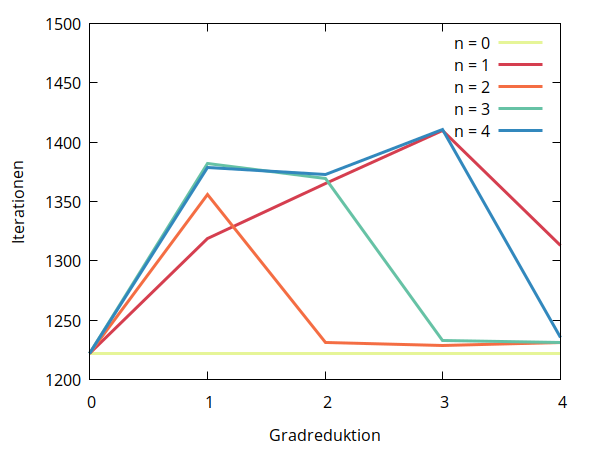
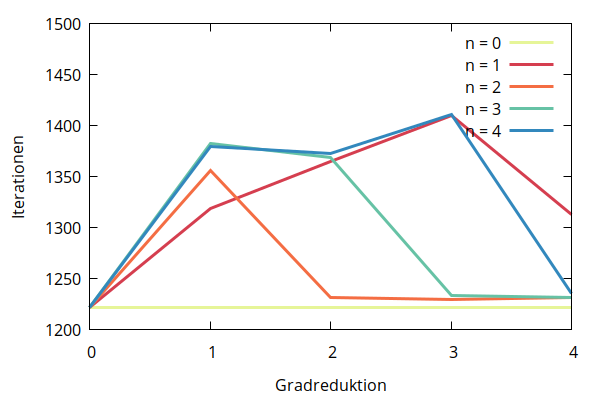
sweeping content

diff --git a/masterarbeit/thesis/src/eval.tex b/masterarbeit/thesis/src/eval.tex
@@ -71,9 +71,9 @@ Um diese Werte zu untersuchen, wurde betrachtet, wie sich die Größe des Rechte
 
 Tabelle \ref{tab:housekeeping} zeigt experimentelle Ergebnisse für $x_0 = 0 + 1 \cdot \lambda_1 $ und $y_0 = 0 + 1 \cdot \lambda_2$ mit $\lambda_1, \lambda_2 \in [0 \pm \varepsilon]$. Sowohl für 1000, als auch für 10000 Bits Genauigkeit reagiert das Ergebnis sehr sensibel auf die Grenzwerte der Housekeeping-Methoden. Falsch gewählte Werte vergrößern sogar die entstandene Überschätzung, im Vergleich zuer Berechnung ohne Cleaning und Splitting, jeweils in Zeile 1 der Tabellen zu sehen. Werden die Grenzwerte durch die \verb+iRRAM+-Präzision bestimmt, so bleibt der Fehler am längsten klein und die höchste Iterationszahl ist möglich.
 
-\Abbildungps{tbh}{.6}{img/housesteps.pdf}{fig:housesteps}{Experimentelle Ergebnisse zu Grenzwerten}{Iterationszahl der H\e non-Abbildung mit fester Genauigkeit von 1000 Bits.}
+\Abbildungps{tbh}{.6}{img/housesteps.png}{fig:housesteps}{Experimentelle Ergebnisse zu Grenzwerten}{Iterationszahl der H\e non-Abbildung mit fester Genauigkeit von 1000 Bits.}
 
-Wie in Abbildung \ref{fig:housesteps} zu sehen ist, hat eine Definition der Grenzwerte unter die zugrunde liegende Genauigkeit keinen Effekt mehr auf die Performanz der Berechnung, da sich die Iterationszahl nicht weiter erhöht.
+Wie in Abbildung \ref{fig:housesteps} zu sehen ist, hat eine Definition der Grenzwerte unter die zugrunde liegende Genauigkeit keinen Effekt mehr auf die Performanz der Berechnung, da sich die Iterationszahl nicht weiter erhöht.  
  
 
 \section{Sweeping}
@@ -85,7 +85,15 @@ Wie in Abbildung \ref{fig:housesteps} zu sehen ist, hat eine Definition der Gren
   \item \textbf{(Splitting)} Einführen neuer Fehlersymbole für Monome, deren Koeffizieten durch die Schritte 1-3 zu stark gewachsen sind.
  \end{enumerate}
 
- Abbildung \ref{fig:sweeping} zeigt die Performanz der Berechnung der H\e non-Abbildung, gemessen an der erreichten Iterationszahl mit fester Präzision von 1000 Bits und $x_0 = y_0 = [0 \pm 2^{1000}]$.
+ Abbildung \ref{fig:sweeping} zeigt die Performanz der Berechnung der H\e non-Abbildung, gemessen an der erreichten Iterationszahl mit statischer Präzision in verschiedenen Fällen. Wie zuvor ist die Berechnung beendet, sobald die Fläche des Rechtecks einen Schwellenwert überschreitet. Zu sehen ist, bei welcher Kombination von Parametern für Sweeing (Schritt 1) und Sweping überschüssiger Fehlersymbole (Schritt 2) die Überschätzung am langsamsten wächst und somit die meisten Iterationen errechntet werden können. Eine Kurve stellt das Ergebnis dar, welches entsteht, wenn $n$ Fehlersymbole erhalten bleiben. Die Zeiteffizienz ist in diesem Falle kein Faktor.
+ 
+Es ist zu erkennen, dass sich die Kurven innerhalb derselben Sweeping-Strategie kaum unterscheiden. Eine Verzehnfachung der Bitzahl in der Breite der Intervalle und der Präzision verzehnfacht auch die erreichte Iterationszahl. 
+
+Die besten Ergebnisse werden beim Beschränken auf \textbf{square\_only} (quadratisches Sweeping) für $n=3$ und Sweeping zum Grade 0; bei \textbf{square\_first} für $n=1$, $n=4$ und Sweeping zum Grade 3 erreicht.
+
+Insgesamt wird jedoch mit \textbf{square\_only} zum Grade 0, also einem Sweeping bis zu einem Taylormodell mit !!!!!!!!, die höchste Iterationszahl erzielt. Im Vergleich mit rein linearen Taylormodellen zeigt sich jedoch eine leichte Verbesserung (siehe Abbildung \ref{fig:extra}). Der Unterschied besteht darin, dass die nichtlinearen Taylormodelle während der Berechnung und besonders während der Multiplikation Punktintervalle erhalten können und sich stattdessen der Grad des Polynoms erhöht. Nach jeder Iteration werden diese dann zunächst zu linearen Taylormodellen reduziert, um dann den Grad durch Splitting auf den Monomen um maximal 1 zu erhöhen. Für lineare Taylormodelle steht lediglich das Splitting für den Kernel zur Verfügung, da sonst nichtlineare Polynome entstünden. Des Weiteren wird hier bereits während der Multiplikation gesweept und Punktintervalle werden zu regulären Intervallen.
+
+Die Performanz des Sweepings \textbf{square\_only} zum Grade 0 verbessert sich im Schnitt mit einer wachsenden Zahl der zu erhaltenen Fehlersymbole, wie in Abbildung \ref{fig:extra} zu sehen ist. Jedes Fehlersymbol erhöht die Menge an erhaltener Abhängigkeitsinformation und sorgt dafür, dass ein Taylormodell dessen runde Ränder besser beschreiben kann. Allerdings stellt die Pratkikabilität dieser Herangehensweise ein Problem dar, da so sehr große Polynome entstehen, die während einer Iteration der H\e non-Abbildung exponentiell in ihrer Länge wachsen.
  
 \begin{figure}[tbh]
 \centering
@@ -101,13 +109,29 @@ Wie in Abbildung \ref{fig:housesteps} zu sehen ist, hat eine Definition der Gren
  \caption{Sweeping beschränkt \textbf{square\_first}}
   \label{fig:sub2}
 \end{subfigure}
-\caption[Sweeping mit verschiedenen Graden]{}
+
+\begin{subfigure}{.5\textwidth}
+  \centering
+  \includegraphics[width=\linewidth]{img/sweeping_only10k.png}
+  \caption{Sweeping beschränkt \textbf{square\_only}}  
+  \label{fig:sub1}
+\end{subfigure}%
+\begin{subfigure}{.5\textwidth}
+  \centering
+  \includegraphics[width=\linewidth]{img/sweeping_first10k.png}
+ \caption{Sweeping beschränkt \textbf{square\_first}}
+  \label{fig:sub2}
+\end{subfigure}
+
+
+\caption[Sweeping mit verschiedenen Graden]{Anzahl an Iterationen, bis das Rechteck eine gewisse Fläche überschreitet, bei einer festen Präzision und Entfernen aller Fehlersymbole bis auf die n größten. Bei n = 0 bleibt Fehlersymbol erhalten. \\ (a) und (b): Präzision $2^{-1000}$ und ein initiales Rechteck von $x_0 = y_0 = [0 \pm 2^{1000}]$ \\ 
+ (c) und (d): Präzision $2^{-10000}$ und ein initiales Rechteck von $x_0 = y_0 = [0 \pm 2^{10000}]$
+}
 \label{fig:sweeping}
 \end{figure}
 
- 
- 
- 
+ \Abbildungps{tbh}{.6}{img/extra.png}{fig:extra}{Experimentelle Ergebnisse zu erhaltenen Fehlersymbolen}{Iterationszahl der H\e non-Abbildung mit fester Genauigkeit von 1000 Bits.}
+
  
  
 
